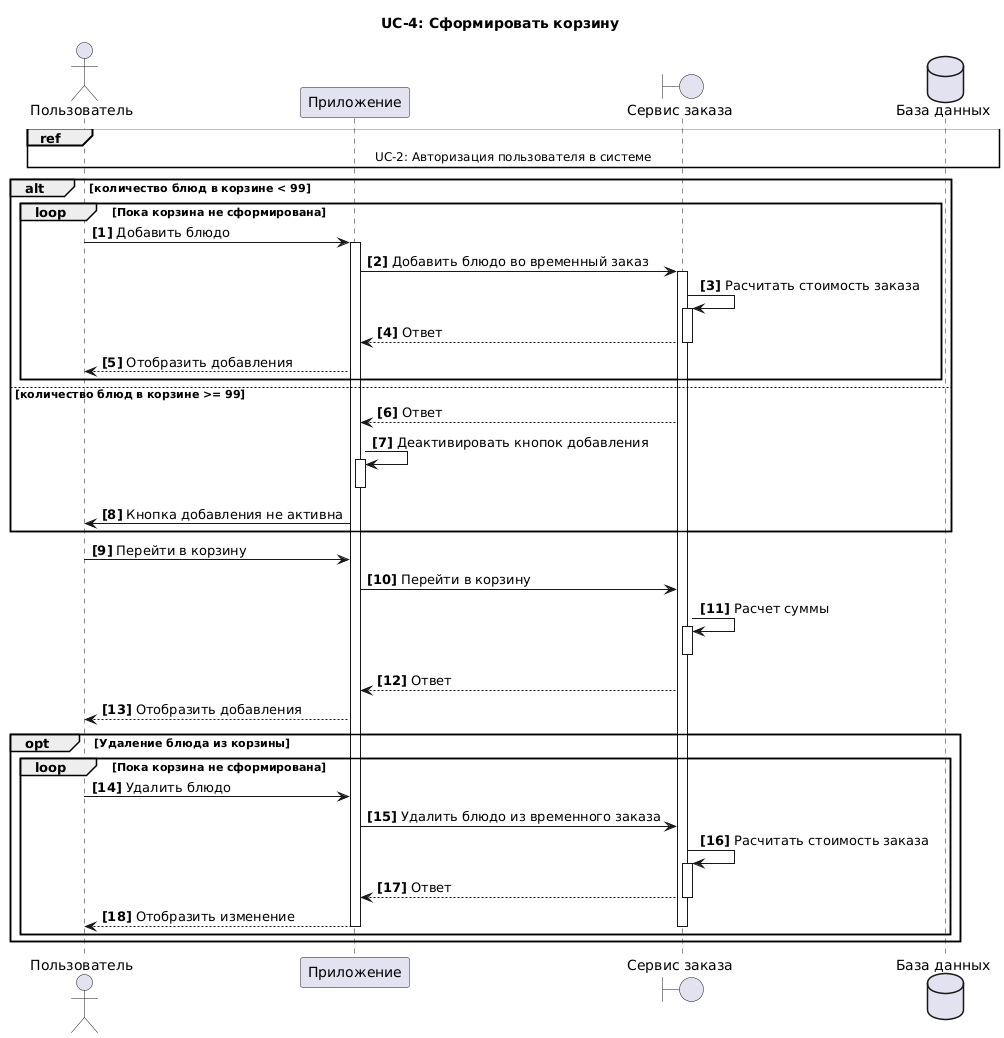
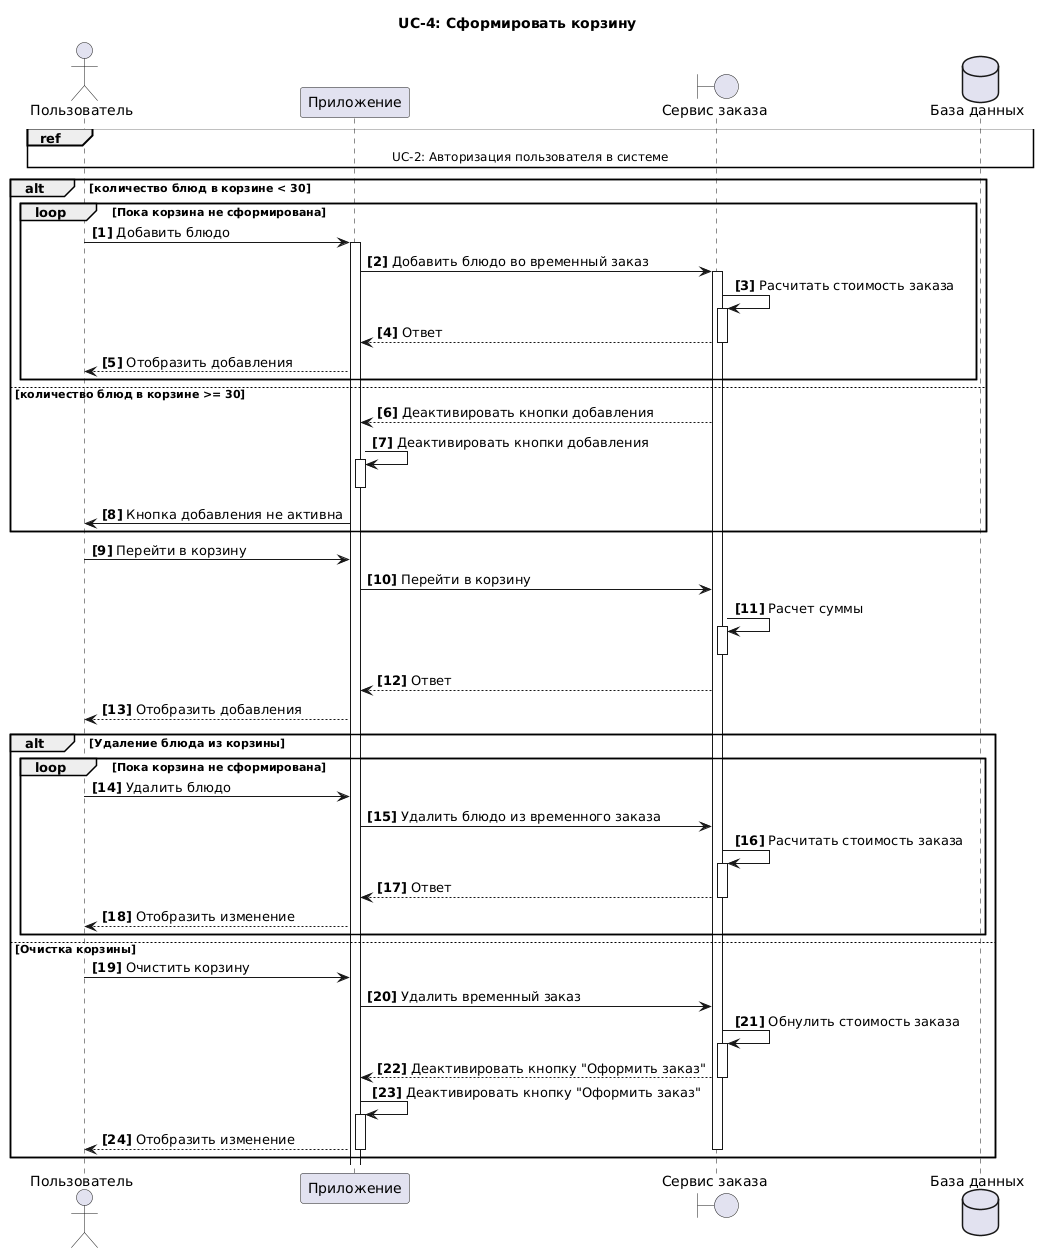
Update

Changed region(s): [[0.0, 0.0308, 1.0, 1.0], [0.3705, 0.0, 0.6175, 0.0308], [0.0, 0.4933, 0.0309, 0.5241]]

diff --git a/10_Test_Cases.md b/10_Test_Cases.md
@@ -89,7 +89,7 @@
 |----|------------------------------------|--------------------------------------|
 | 1  | Открыть страницу авторизации пользователя [WF5](8_UI.md#wf5-страница-авторизации-пользователя) | Страница авторизации открыта |
 | 2 | Заполнить логин(e-mail, номер телефона) и пароль | Пользователь видит заполненные логин и пароль
-| 3 | Нажать кнопку "Войти" | Выводится сообщение об ошибке
+| 3 | Нажать кнопку "Войти" | Выводится сообщение об  "Неправильный логин/пароль"
 | 4 | Нажать кнопку восстановления пароля "Забыли пароль?" | Выводится страница восстановления пароля [WF6](8_UI.md#wf6-страница-в-восстановления-пароля) |
 | 5 | Заполнить логин e-mail | Пользователь видит заполненный e-mail
 | 6 | Нажать кнопку "Отправить" | Пользователю на указанный e-mail приходит ссылка на восстановления пароля
@@ -129,3 +129,70 @@
 | 7 | Пользователь в почтовом ящике проходит по ссылке | Открывается страница обновления пароля
 | 8 | Пользователь вводит повторный пароль отличный от основного на странице обновления пароля| Система покажет сообщение ошибке
 
+
+## 3
+### 3.1 Задача
+[UC-4: Сформировать корзину](5_SystemRequirements.md#5224-Сформировать-корзину)
+### 3.2 Тест-кейсы
+#### 3.2.1 Основной сценарий
+Цель : Проверить, что если пользователь выбрал и добавил блюда в корзину, то на кнопке "Корзина" отобразится: суммарное количество добавленных блюд и итоговая стоимость заказа.
+
+| №  | Описание шага                          | Результат                           |
+|----|------------------------------------|--------------------------------------|
+| 1  | Открыть страницу выбора категорий блюд и самих блюд [WF5](8_UI.md#wf-8-Страница-выбора-категорий-блюд-и-самих-блюд) | Страница выбора категорий блюд открыта |
+| 2 |  Добавить необходимое количество блюд в корзину | Над кнопкой "Корзина" отобразится суммарное количество добавленных блюд |
+| 3 | Нажать на кнопку "Корзина" | Открывается страница корзины: Редактирование и удаление добавленных блюд [WF5](8_UI.md#wf-8-Страница-корзины-Редактирование-и-удаление добавленных-блюд). Отобразились добавленные блюда, суммарное количество добавленных блюд, итоговая стоимость заказа |
+
+#### 3.2.2 Негативный сценарий
+
+Цель : Проверить, что если пользователь не добавил блюда в корзину то на кнопке "Корзина" не отображается суммарное количество добавленных блюд, а кнопка "Оформить заказ " отсутствует.
+
+#### 3.2.3 Альтернативный сценарий
+
+Цель : Проверить, что если пользователь выбрал и добавил блюда в корзину, нажал на кнопку "Корзина" то откроется страница редактирования и удаление добавленных блюд корзины на которой отобразятся: количество добавленных блюд их итоговая стоимость.
+
+
+Цель : Проверить, что если пользователь выбрал и добавил блюда в корзину, нажал на кнопку "Корзина" перешел на страницу редактирования и удаление добавленных блюд корзины и нажал на кнопку '+' 
+
+
+Цель : Проверить, что если пользователь выбрал и добавил блюда в корзину, нажал на кнопку "Корзина" перешел на страницу редактирования и удаление добавленных блюд корзины и нажал на кнопку "Очистить корзину" то добавленные блюда удаляться из корзины.
+
+
+## 4
+### 4.1 Задача
+[UC-5: Проверить наличие ингредиентов на производстве](5_SystemRequirements.md#5225-Проверить-наличие-ингредиентов-на-производстве)
+### 4.2 Тест-кейсы
+#### 4.2.1 Основной сценарий
+
+#### 4.2.2 Негативный сценарий
+
+#### 4.2.3 Альтернативный сценарий
+
+## 5
+### 5.1 Задача
+[UC-7: Произвести оплату картой](5_SystemRequirements.md#5227-Произвести-оплату)
+### 5.2 Тест-кейсы
+#### 5.2.1 Основной сценарий
+
+#### 5.2.2 Негативный сценарий
+
+#### 5.2.3 Альтернативный сценарий
+
+## 6
+### 6.1 Задача
+[UC-11: Получить информацию о готовности заказа на информационном табло](5_SystemRequirements.md#5229-Получить-информацию-о-готовности-заказа-на-информационном-табло)
+### 6.2 Тест-кейсы
+#### 6.2.1 Основной сценарий
+
+#### 6.2.2 Негативный сценарий
+
+
+## 7
+### 7.1 Задача
+[UC-10: Списать баллы по программе лояльности](5_SystemRequirements.md#5232-Списать-баллы-по-программе-лояльности)
+### 7.2 Тест-кейсы
+#### 7.2.1 Основной сценарий
+
+#### 7.2.2 Негативный сценарий
+
+#### 7.2.3 Альтернативный сценарий

diff --git a/5_SystemRequirements.md b/5_SystemRequirements.md
@@ -119,8 +119,8 @@ NFSUP2 Система должна обеспечивать мониторинг
 Предусловия | 1. Пользователь зашел в приложение <br> 2. Пользователь авторизован в системе [Перейти к UC-2](#5222-Авторизоваться-в-системе) 
 Постусловия | 1. Заказ в производство поступает только после выполнения оплаты и назначения номера заказа.
 Основной сценарий | 1. Пользователь нажал на кнопку N10 <br> 2. Система добавила выбранное блюдо в корзину, подсветила суммарное количество добавленных блюд над кнопкой N11 3. Система  рассчитала итоговую стоимость <br> 4. Пользователь выполнил необходимое количество повторений п.1-п.3 <br> 5.  Пользователь нажал на кнопку N11 и открыл страницу корзины <br> 6.Система открыла страницу корзины <br> 7. Система отобразила добавленные блюда <br> 8. Система отобразила количество добавленных блюд <br> 9. Система рассчитала итоговую стоимость заказа. Конец сценария. <br><br> 
-Альтернативный сценарий| AF4-4a: Без просмотра корзины <br> 4a.1. Пользователь выполнил п.1-п.4 основного сценария. Конец сценария.<br><br> AF4-4b: Выбор максимального количества блюд <br> 4b.1. Пользователь выполнил п.1-п.4 основного сценария 29 раз <br> 4b.2. Система деактивировала кнопки N10. Конец сценария.<br><br> AF4-10a: Изменение количества блюд <br> 10a.1 Пользователь выполнил п.1-п.9 основного сценария <br> 10a.2 Пользователь изменил количество блюд кнопкой N12 или N13 <br> 10a.3 Система отобразила изменение количества блюда <br> 10a.4 Система отобразила изменение количества блюда <br> 10a.5 Система пересчитала итоговую стоимость заказа Конец сценария. <br><br> AF4-10b: Выбор максимального количества блюд <br> 10b.1 Пользователь выполнил п.1-п.9 основного сценария <br> 10b.2 Пользователь нажал на кнопку N12 29 раз <br> 10b.3 Система деактивировала кнопку N12. Конец сценария. <br><br> AF4-10c: Удаление всех блюд из корзины <br> 10c.1 Пользователь выполнил п.1-п.9 основного сценария <br> 10c.2 Пользователь нажал на кнопку N14 <br> 10c.3 Система удалила все блюда из корзины <br> 10c.4 Система обнулила итог. Конец сценария. <br><br>  
-Наименования элементов пользовательского интерфейса|N9: "Категория меню" <br> N10:"Блюдо" <br> N11:"Корзина" <br>  N12:"+" <br>  N13:"-" <br>  N14:"Очистить корзину" <br> N20: "Назад".
+Альтернативный сценарий| AF4-4a: Без просмотра корзины <br> 4a.1. Пользователь выполнил п.1-п.4 основного сценария. Конец сценария.<br><br> AF4-4b: Выбор максимального количества блюд <br> 4b.1. Пользователь выполнил п.1-п.4 основного сценария 29 раз <br> 4b.2. Система деактивировала кнопки N10. Конец сценария.<br><br> AF4-10a: Изменение количества блюд <br> 10a.1 Пользователь выполнил п.1-п.9 основного сценария <br> 10a.2 Пользователь изменил количество блюд кнопкой N12 или N13 <br> 10a.3 Система отобразила изменение количества блюда <br> 10a.4 Система отобразила изменение количества блюда <br> 10a.5 Система пересчитала итоговую стоимость заказа Конец сценария. <br><br> AF4-10b: Выбор максимального количества блюд <br> 10b.1 Пользователь выполнил п.1-п.9 основного сценария <br> 10b.2 Пользователь нажал на кнопку N12 29 раз <br> 10b.3 Система деактивировала кнопку N12. Конец сценария. <br><br> AF4-10c: Удаление всех блюд из корзины <br> 10c.1 Пользователь выполнил п.1-п.9 основного сценария <br> 10c.2 Пользователь нажал на кнопку N14 <br> 10c.3 Система удалила все блюда из корзины <br> 10c.4 Система обнулила итог <br> 10c.5 Система деактивировала кнопку N18. Конец сценария. <br><br>  
+Наименования элементов пользовательского интерфейса|N9: "Категория меню" <br> N10:"Блюдо" <br> N11:"Корзина" <br>  N12:"+" <br>  N13:"-" <br>  N14:"Очистить корзину" <br> N18: "Оформить заказ" <br> N20: "Назад".
 | Диаграмма | <img src="images/5_UML/UC_4_CreateBasket.png" width="100" />  <br> [PLANTUML](5_UML/UC_4_CreateBasket.wsd)
 
 
